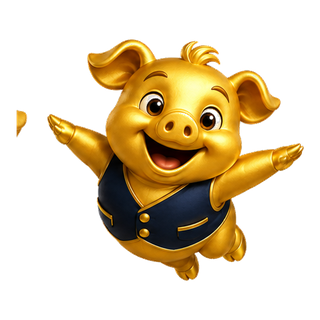
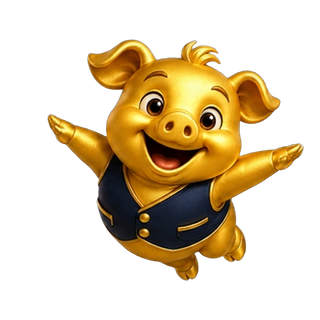
Corregir 6 imágenes de Freaky con pedazos de otras poses mal recortados
Puerquito (avatar4/flotando), Luchador (avatar5/pensando) y La Catrina
(avatar6/flotando, ojos_cerrados, pensando, saludando) tenían
fragmentos sueltos -- en el caso de la Catrina, hasta una figura
duplicada completa -- de otras poses mal recortados en el mismo PNG.

Se editaron con IA (nano-banana-2, --ref sobre la imagen original) para
borrar el fragmento sin tocar el personaje principal, y se les quitó el
fondo con rembg (el modelo no emite canal alfa real, solo dibuja un
patrón de cuadros; rembg lo convierte en transparencia de verdad).

Claude-Session: https://claude.ai/code/session_01MC1ZAjDxvCZeA4iiDRFHEH

diff --git a/app-web/index.html b/app-web/index.html
@@ -15124,8 +15124,18 @@ async function compartirBalance(){
 // última que vieron y se muestran juntas. Cada vez que se hace un cambio
 // visible para el usuario: sube VERSION_APP_ACTUAL en 1 y agrega una entrada
 // nueva aquí arriba (la más reciente primero no es necesario, se ordena sola).
-const VERSION_APP_ACTUAL = 75;
+const VERSION_APP_ACTUAL = 76;
 const CHANGELOG_APP = [
+  {
+    version: 76,
+    fecha: '2026-08-31',
+    cambios_es: [
+      'Se corrigieron 6 imágenes de Freaky (Puerquito, Luchador y La Catrina) que tenían pedazos sueltos de otras poses mal recortados.'
+    ],
+    cambios_en: [
+      'Fixed 6 Freaky images (Piggy, Luchador, and La Catrina) that had leftover chunks from other poses badly cut in.'
+    ]
+  },
   {
     version: 75,
     fecha: '2026-08-31',

diff --git a/app-web/CONTEXTO_PROYECTO.md b/app-web/CONTEXTO_PROYECTO.md
@@ -46,6 +46,15 @@ Todo pendiente real disperso en el historial, en un solo lugar. Verificado contr
 
 ## 0. Avances recientes (más nuevo primero)
 
+- **2026-08-31 (parte 96) — Bug reportado por el usuario: "revisa todos los recortes de Freaky ya vi que la catrina el puerquito y el luchador tienen cachos de otras posiciones mal cortados que parecen y se ven pésimo".** Freaky tiene 6 "asesores" (skins) seleccionables (`assets/asesores/avatar1..6/`), cada uno con 8 PNG (una por pose: flotando/pensando/hablando/sentado/saludando/ojos_cerrados/sentado-recortado/avatar). Se revisaron los 48 archivos uno por uno (nunca se habían auditado desde que se aprobaron en la parte de creación de los 3 avatares nuevos).
+  - **6 de 48 archivos tenían el defecto real**: `avatar4/flotando.png` (Puerquito, un pedazo dorado suelto cerca del borde izquierdo) y `avatar5/pensando.png` (Luchador, un fragmento chico suelto) tenían un defecto menor; `avatar6/flotando.png`, `avatar6/ojos_cerrados.png`, `avatar6/pensando.png` y `avatar6/saludando.png` (La Catrina) tenían el defecto grave que describió el usuario -- fragmentos grandes y hasta una figura duplicada completa de otra pose, mal recortados, ocupando buena parte del lienzo. avatar1 (El Sabio), avatar2 (La Estratega), avatar3 (El Cómplice) y el resto de los archivos de avatar4/5/6 estaban limpios.
+  - **Arreglado con edición de imagen por IA + eliminación de fondo local, no regenerando desde cero**: se cargó la skill `ai-media-gen` (Kie.ai/fal.ai) y se usó `nano-banana-2` (el modelo pensado para edición) pasando cada imagen defectuosa como `--ref` con una instrucción concreta de qué fragmento borrar, dejando el personaje principal intacto -- iterar sobre el resultado existente en vez de generar de cero conserva el diseño aprobado del personaje.
+  - **Problema real encontrado al primer intento**: el modelo no puede emitir canal alfa real -- al pedir "fondo transparente" simplemente DIBUJA un patrón de cuadros gris/blanco como si fuera transparencia, pero el PNG resultante queda 100% opaco (confirmado midiendo el canal alfa con PIL, no solo mirando la imagen). Se instaló `rembg` (modelo `bria-rmbg-2.0`, corre local, ~1GB, se descarga una sola vez) como paso adicional después de cada edición, para remover el fondo de verdad y recuperar transparencia real -- confirmado con `alpha.getextrema()` antes (255,255 = opaco) y después (0,255 = transparencia real) de aplicarlo.
+  - **2do problema encontrado revisando el resultado, no asumido correcto**: la primera versión de `avatar6/ojos_cerrados.png` quedó con LOS OJOS ABIERTOS -- el original tenía el personaje principal parcialmente tapado por el propio recorte defectuoso (cortado por el borde del lienzo), así que el modelo no tuvo suficiente referencia de que esa pose específica lleva los ojos cerrados sonriendo (como en los otros 5 avatares). Se regeneró una 2a vez con una instrucción explícita señalando ese detalle, comparando contra el original para confirmarlo antes de aceptarlo.
+  - Las 6 imágenes corregidas se redimensionaron de vuelta a 320×320 (mismo tamaño que ya usaba el resto de los assets) y se probaron en la app real con Playwright, seleccionando cada asesor/pose vía `aplicarAsesorAlPersonaje()` -- sin errores 404 ni de JS, capturas visuales confirmando que ya no aparece ningún fragmento ajeno en ninguna de las 6.
+  - `VERSION_APP_ACTUAL` subido a **76**, con entrada nueva en `CHANGELOG_APP` (ES/EN).
+  - Desplegado a producción.
+
 - **2026-08-31 (parte 95) — Bug reportado por el usuario: "ya ni quiero que Freaky se pare en el +, estorba mucho, ponlo en un lugar donde no estorbe".** Freaky (`freakyEncontrarPerchas()`, parte introducida cuando se le dio un lugar fijo donde posarse en vez de flotar sin parar) elegía al azar entre 2 "perchas" reales: el botón de configuración (`.btn-config-flotante`, esquina inferior derecha) y el FAB de "+" de la barra inferior (`.nav-inferior-fab`) -- el botón MÁS usado de toda la app (agregar gasto/ingreso), así que la mitad de las veces Freaky se sentaba justo encima tapándolo.
   - **Arreglado quitando esa opción, no reemplazándola por otra igual de expuesta**: `candidatosSel` en `freakyEncontrarPerchas()` pasó de `['.btn-config-flotante', '.nav-inferior-fab']` a solo `['.btn-config-flotante']`. Freaky ahora SIEMPRE se sienta junto al botón de configuración (uso mucho más esporádico) cuando cambia de pantalla; si por lo que sea esa pantalla no lo tuviera disponible (caso raro, casi siempre está), cae al punto libre de la zona segura de siempre en vez de flotar al azar sin rumbo.
   - Confirmado con Playwright que `freakyEncontrarPerchas()` ya nunca devuelve el FAB como candidato (probado en 4 pantallas distintas, 8 veces cada una) -- el vuelo real de GSAP no se pudo ejecutar en el sandbox (sin acceso a CDN, mismo artefacto ya conocido de sesiones anteriores con Chart.js), pero la selección de percha es lógica pura de JS, independiente de si GSAP cargó, así que la verificación es válida igual.
